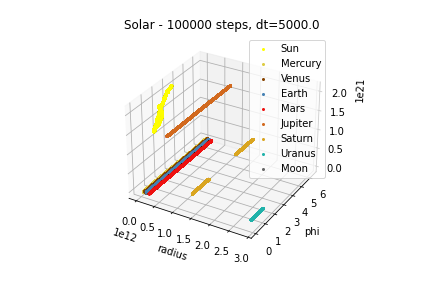
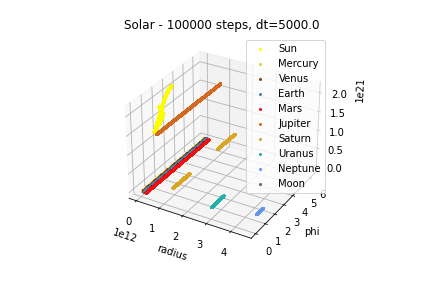
sync vor vortrag

diff --git a/Solar.py b/Solar.py
@@ -25,7 +25,7 @@ velocity_mars = 24077
 velocity_jupiter = 13070
 velocity_saturn = 9650
 velocity_uranus = 6810
-velocity_neptune = 544
+velocity_neptune = 5440
 velocity_moon = 1022
 
 earth_year = 60 * 60 * 24* 365.2
